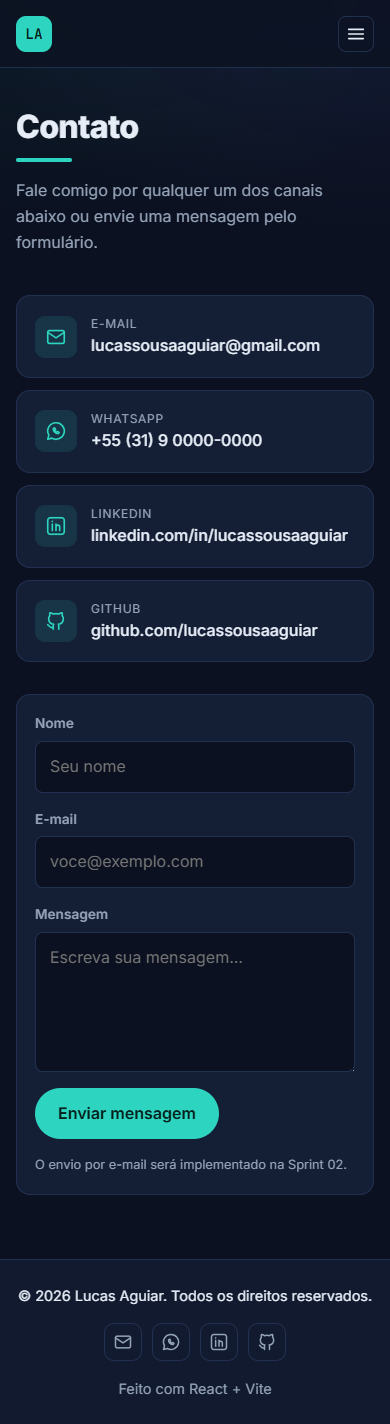
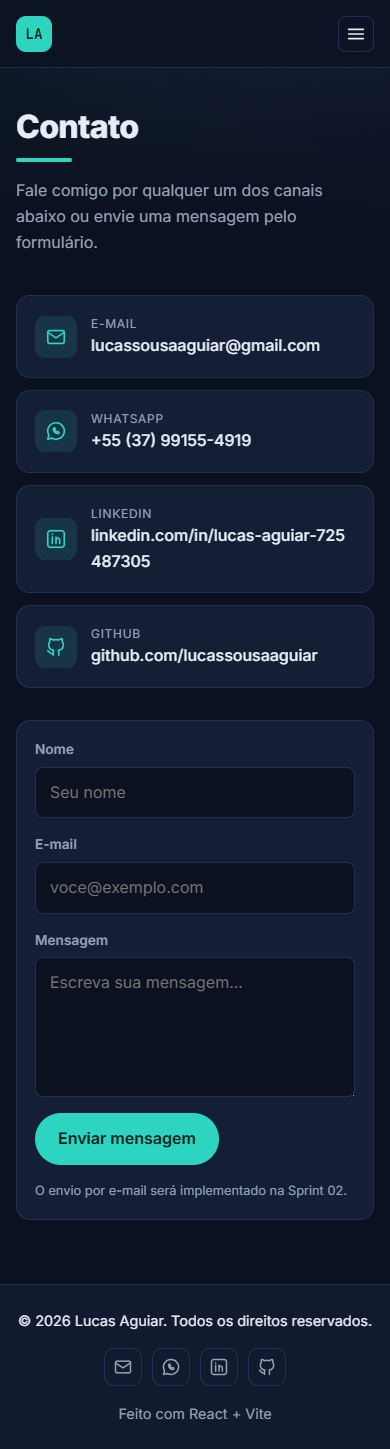
Atualiza WhatsApp e LinkedIn nos contatos e wireframes

diff --git a/docs/wireframes/src/contact.html b/docs/wireframes/src/contact.html
@@ -30,8 +30,8 @@
       <div>
         <div class="note" style="left: 395px; top: 228px;">Ícones abrem mailto:, wa.me, LinkedIn e GitHub</div>
         <div class="card clink"><div class="ic"></div><div><div class="text w40" style="width:60px"></div><b style="font-size:13px">lucas...@gmail.com</b></div></div>
-        <div class="card clink"><div class="ic"></div><div><div class="text w40" style="width:60px"></div><b style="font-size:13px">+55 (31) 9 0000-0000</b></div></div>
-        <div class="card clink"><div class="ic"></div><div><div class="text w40" style="width:60px"></div><b style="font-size:13px">linkedin.com/in/...</b></div></div>
+        <div class="card clink"><div class="ic"></div><div><div class="text w40" style="width:60px"></div><b style="font-size:13px">+55 (37) 99155-4919</b></div></div>
+        <div class="card clink"><div class="ic"></div><div><div class="text w40" style="width:60px"></div><b style="font-size:13px">linkedin.com/in/lucas-aguiar-725487305</b></div></div>
         <div class="card clink"><div class="ic"></div><div><div class="text w40" style="width:60px"></div><b style="font-size:13px">github.com/lucassousaaguiar</b></div></div>
       </div>
       <div class="card">

diff --git a/src/data/contacts.ts b/src/data/contacts.ts
@@ -7,8 +7,8 @@ export interface ContactLink {
 
 export const contacts: ContactLink[] = [
   { id: 'email', label: 'E-mail', value: 'lucassousaaguiar@gmail.com', href: 'mailto:lucassousaaguiar@gmail.com' },
-  { id: 'whatsapp', label: 'WhatsApp', value: '+55 (31) 9 0000-0000', href: 'https://wa.me/5531900000000' },
-  { id: 'linkedin', label: 'LinkedIn', value: 'linkedin.com/in/lucassousaaguiar', href: 'https://www.linkedin.com/in/lucassousaaguiar' },
+  { id: 'whatsapp', label: 'WhatsApp', value: '+55 (37) 99155-4919', href: 'https://wa.me/5537991554919' },
+  { id: 'linkedin', label: 'LinkedIn', value: 'linkedin.com/in/lucas-aguiar-725487305', href: 'https://www.linkedin.com/in/lucas-aguiar-725487305/' },
   { id: 'github', label: 'GitHub', value: 'github.com/lucassousaaguiar', href: 'https://github.com/lucassousaaguiar' },
 ]
 
